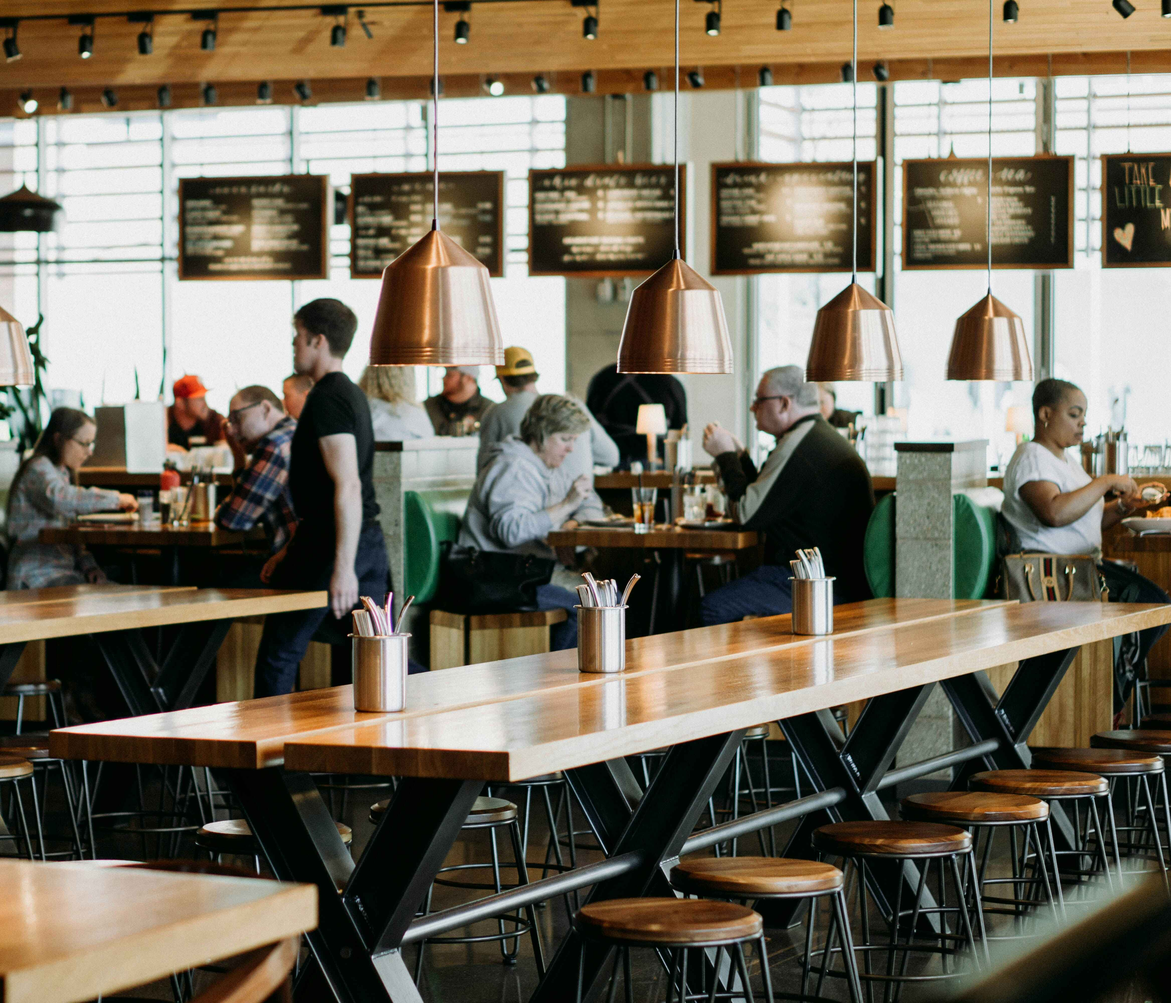
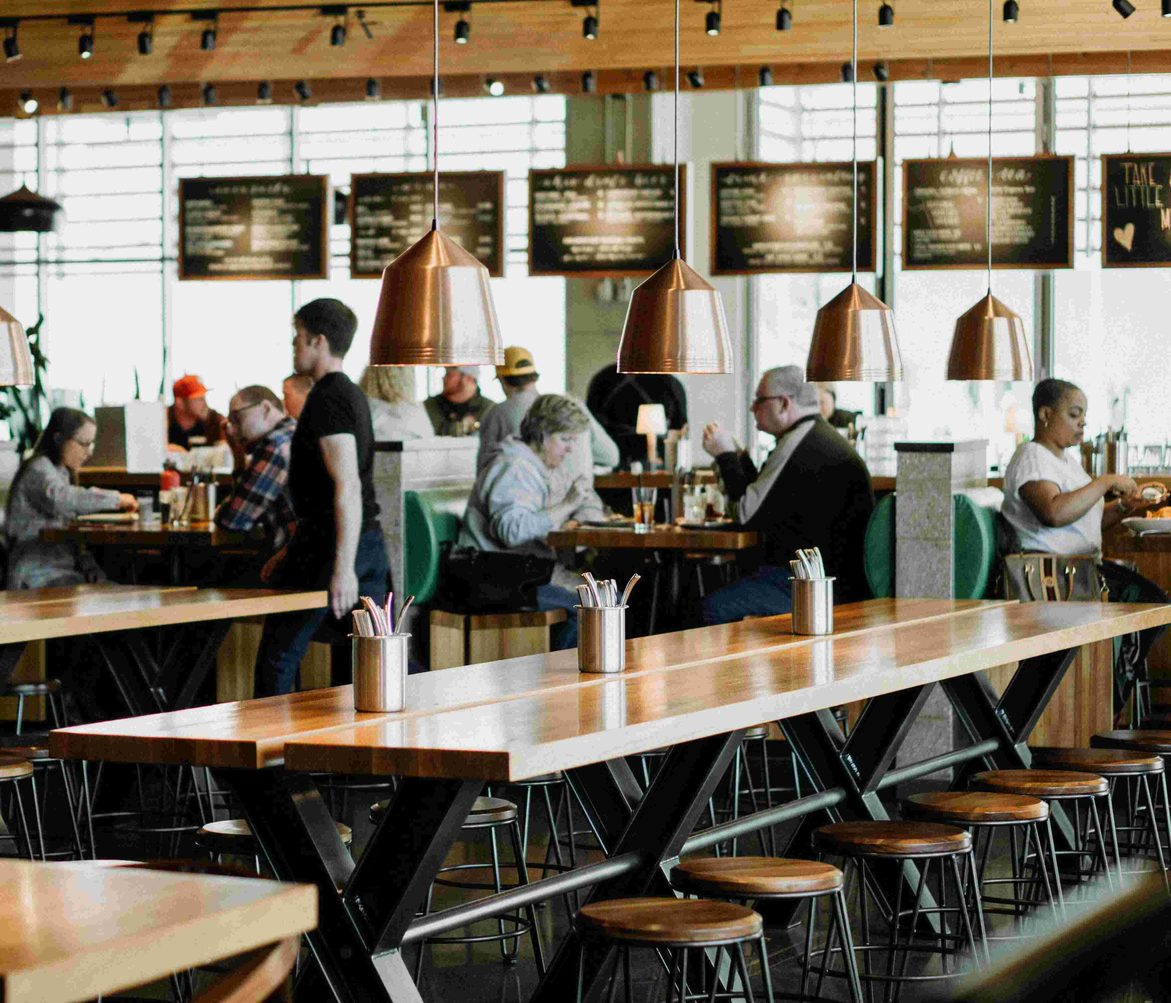
optimize imgs

Changed region(s): [[0.4967, 0.5625, 0.5277, 0.5938], [0.3104, 0.5938, 0.3415, 0.625]]

diff --git a/index.html b/index.html
@@ -218,19 +218,19 @@
 
           <ul class="gallery-pictures-ul">
               <li class="li-1-1 containing-img anim-from-left small-screen-anim-from-left">
-                <img src="./assets/img/gallery-1-compressed.jpg" alt="">
+                <img src="./assets/img/gallery-1-compressed.jpg" loading="lazy" alt="">
               </li>
               <li class="li-1-2 containing-img anim-from-right small-screen-anim-from-right">
-                <img src="./assets/img/gallery-2-compressed.jpg" alt="">
+                <img src="./assets/img/gallery-2-compressed.jpg" loading="lazy" alt="">
               </li>
               <li class="li-2-1 containing-img anim-from-left small-screen-anim-from-left">
-                <img src="./assets/img/gallery-3-compressed.jpg" alt="">
+                <img src="./assets/img/gallery-3-compressed.jpg" loading="lazy" alt="">
               </li>
               <li class="li-3-1 containing-img anim-from-left small-screen-anim-from-right">
-                <img src="./assets/img/gallery-4-compressed.jpg" alt="">
+                <img src="./assets/img/gallery-4-compressed.jpg" loading="lazy" alt="">
               </li>
               <li class="li-3-2 containing-img anim-from-right small-screen-anim-from-left">
-                <img src="./assets/img/gallery-5-compressed.jpg" alt="">
+                <img src="./assets/img/gallery-5-compressed.jpg" loading="lazy" alt="">
               </li>
           </ul>
 
